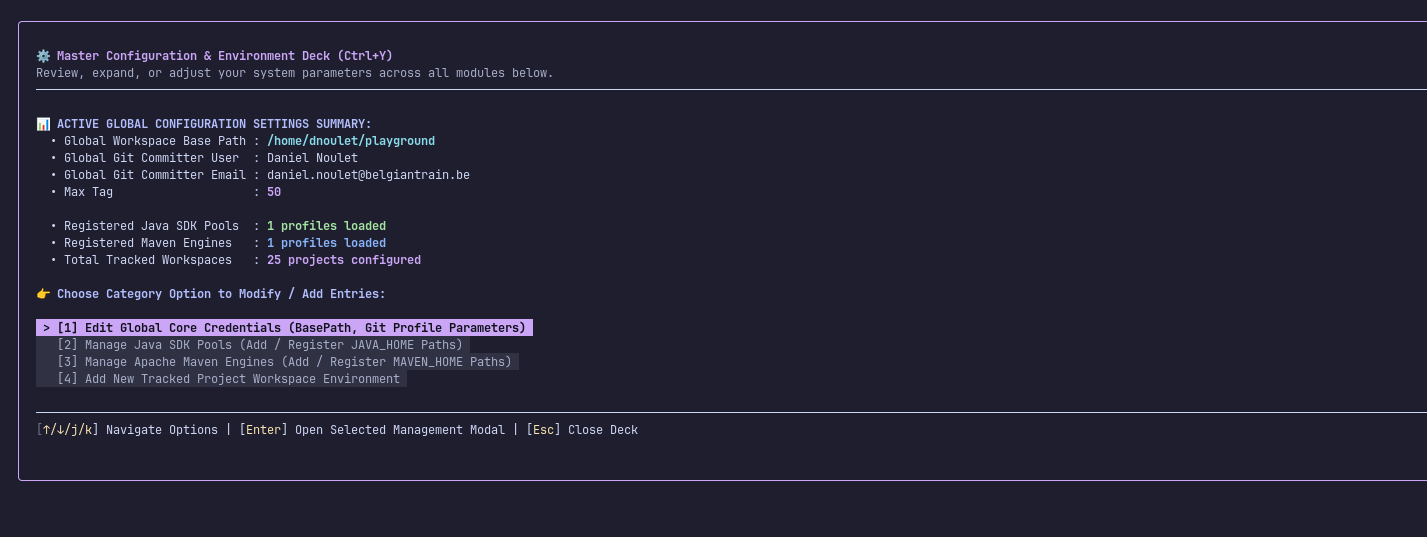
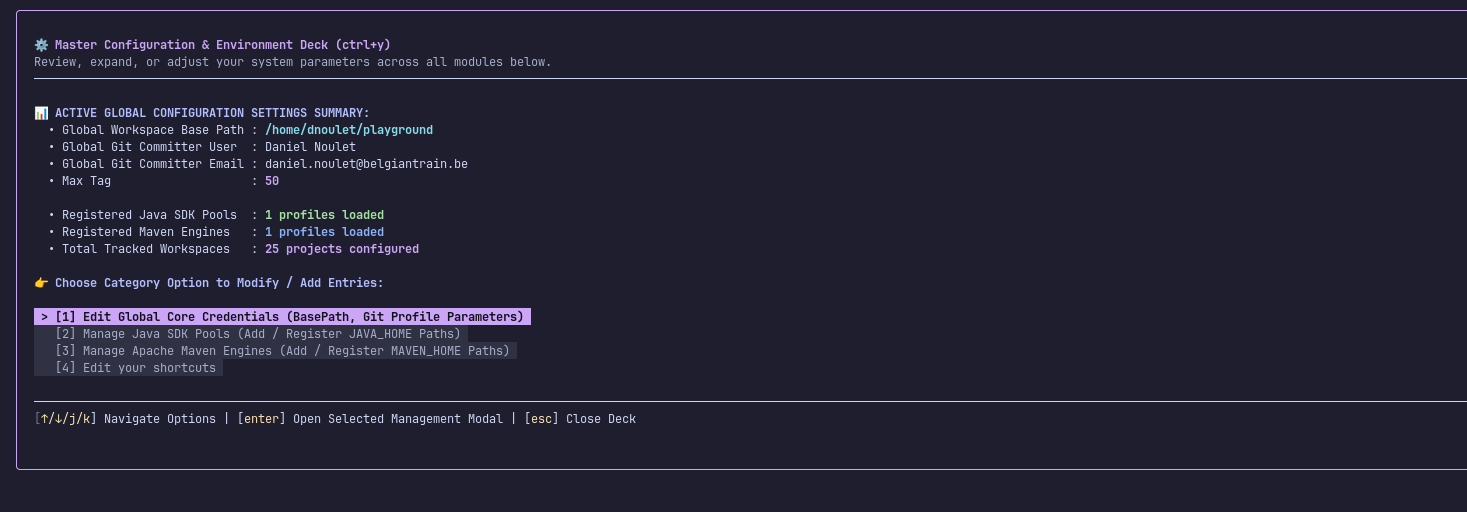
doc: fix doc and made up to date

diff --git a/README.md b/README.md
@@ -21,8 +21,8 @@ Shortcut: ctrl+g\
 Select the project you want to clone\
 ![git_projects](images/git_projects.png)
 
-![git_operations](images/git_operations.png)
-Select the branch you want to checkout\
+![git_operations](images/git_operations.png)\
+Select the branch you want to check out\
 ![branches](images/branches.png)
 
 Project successfully checked out\
